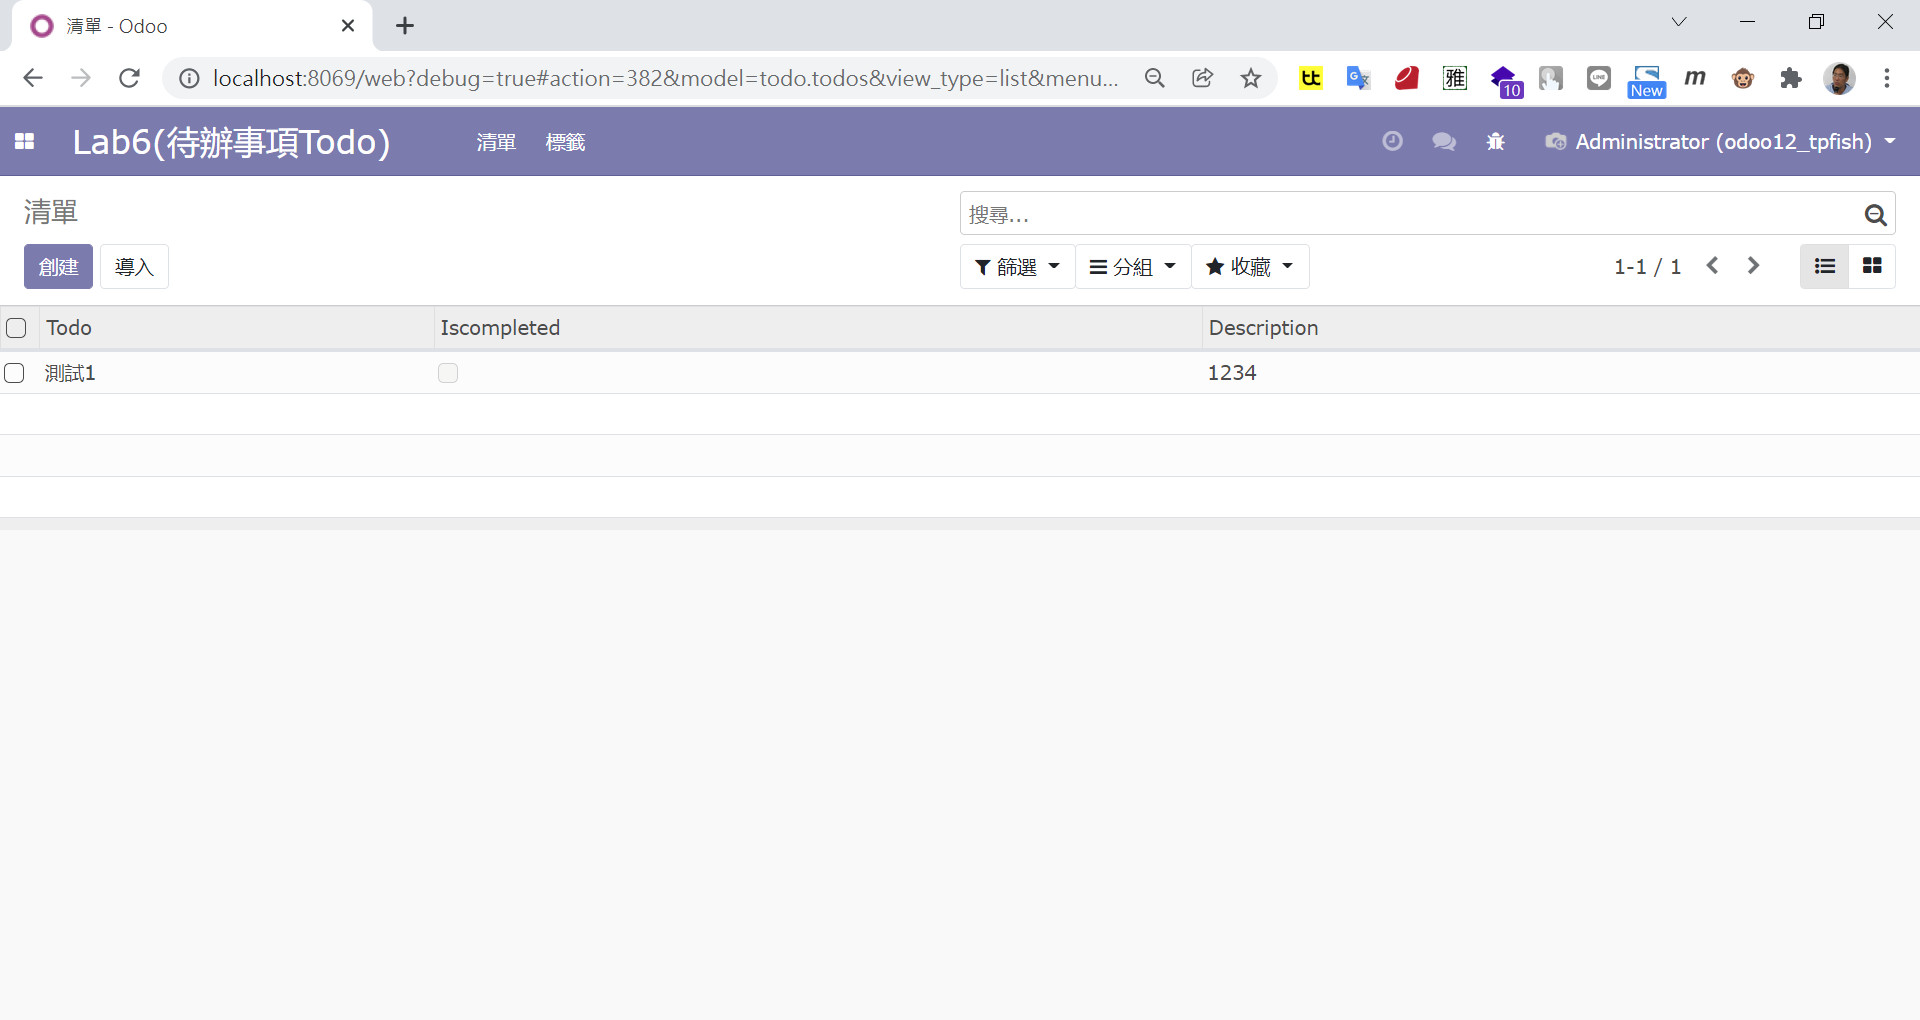
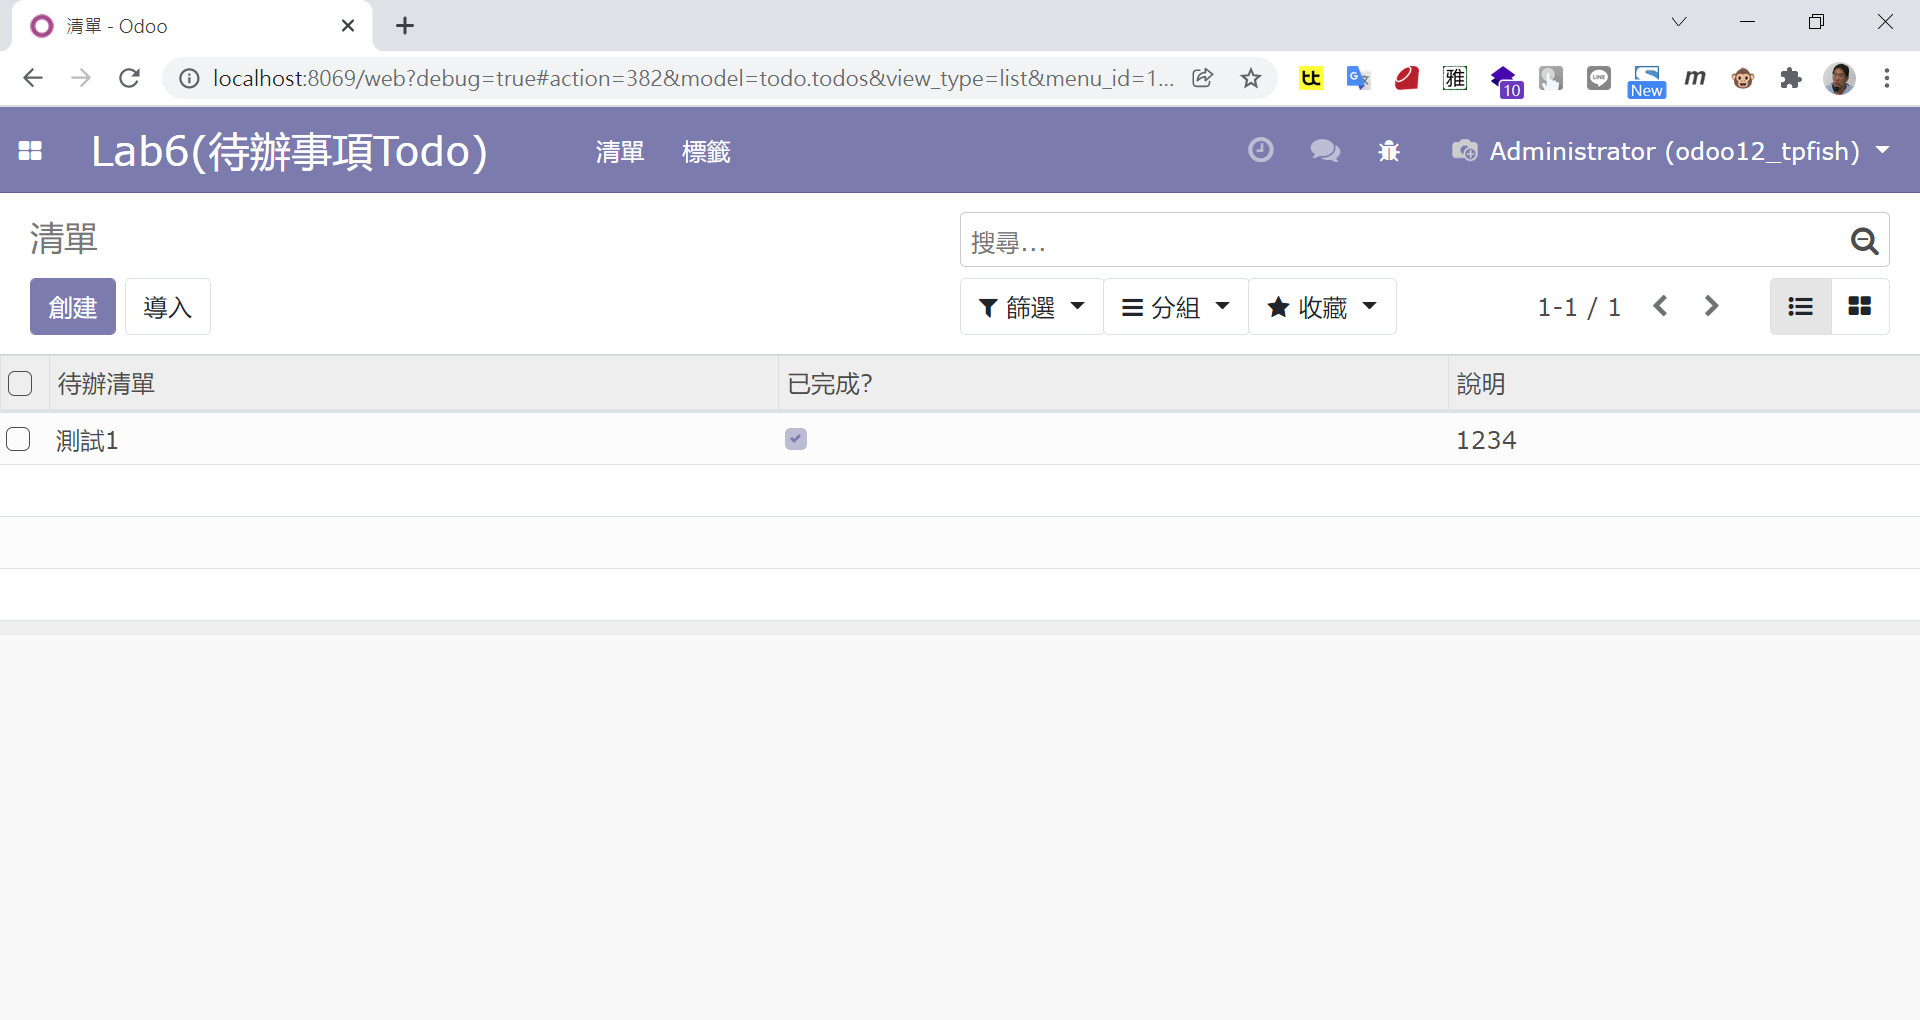
Cool

Changed region(s): [[0.0, 0.1216, 1.0, 0.4559], [0.5938, 0.0608, 0.625, 0.0912]]

diff --git a/models/models.py b/models/models.py
@@ -6,7 +6,7 @@ class TodoTags(models.Model):
     _description = '待辦事項_標籤'
     _rec_name = 'title'
 
-    title = fields.Char(required=True, string="Tag name")
+    title = fields.Char(required=True, string="標籤名")
     note = fields.Text()
 
     todos_ids = fields.One2many('todo.todos', 'tag')
@@ -15,17 +15,17 @@ class Todos(models.Model):
     _name = 'todo.todos'
     _description = '待辦事項_清單'
 
-    todo = fields.Char(required=True)
-    isCompleted = fields.Boolean()
-    description = fields.Text()
+    todo = fields.Char(required=True, string="待辦清單")
+    isCompleted = fields.Boolean(string="已完成?")
+    description = fields.Text(string="說明")
     
-    state = fields.Selection(selection=[('draft', '草稿'),('short', '短程'),('long', '長程'),('urgent', '急件'),], string="狀態", default="draft")
-    tag = fields.Many2one('todo.tags')
+    state = fields.Selection(selection=[('draft', '草案'),('short', '短計畫'),('long', '長計畫'),('urgent', '急件'),], string="狀態", default="draft")
+    tag = fields.Many2one('todo.tags', string="標籤")
 
     @api.model
     def create(self, vals):
         if not vals.get('description'):  #如果沒有描述
-            vals['description'] = '預設描述'
+            vals['description'] = '無說明XD'
 
         if vals.get('isCompleted'):
             raise UserError('你不能建立已經完成的待辦事項！')

diff --git a/README.md b/README.md
@@ -2,9 +2,22 @@
 
 ##Patrick Su @ Alltop 2021/12/08
 
+* 安裝&更新
 ![Demo1](https://github.com/afgnsu/odoo12-lab6/blob/main/01.jpg)
-* 首頁
+* 首頁_清單(待辦事項)
 ![Demo2](https://github.com/afgnsu/odoo12-lab6/blob/main/02.jpg)
-* 詳細資訊
+* 新建(待辦事項)
 ![Demo3](https://github.com/afgnsu/odoo12-lab6/blob/main/03.jpg)
-* 資料表結構
+* 清單(待辦事項)
+![Demo4](https://github.com/afgnsu/odoo12-lab6/blob/main/04.jpg)
+* 編輯(待辦事項)
+![Demo5](https://github.com/afgnsu/odoo12-lab6/blob/main/05.jpg)
+* 標籤
+![Demo6](https://github.com/afgnsu/odoo12-lab6/blob/main/06.jpg)
+* 新建(標籤)
+![Demo7](https://github.com/afgnsu/odoo12-lab6/blob/main/07.jpg)
+* 清單(標籤)
+![Demo8](https://github.com/afgnsu/odoo12-lab6/blob/main/08.jpg)
+* PostgreSQL資料表結構
+![Demo9](https://github.com/afgnsu/odoo12-lab6/blob/main/09.jpg)
+---
